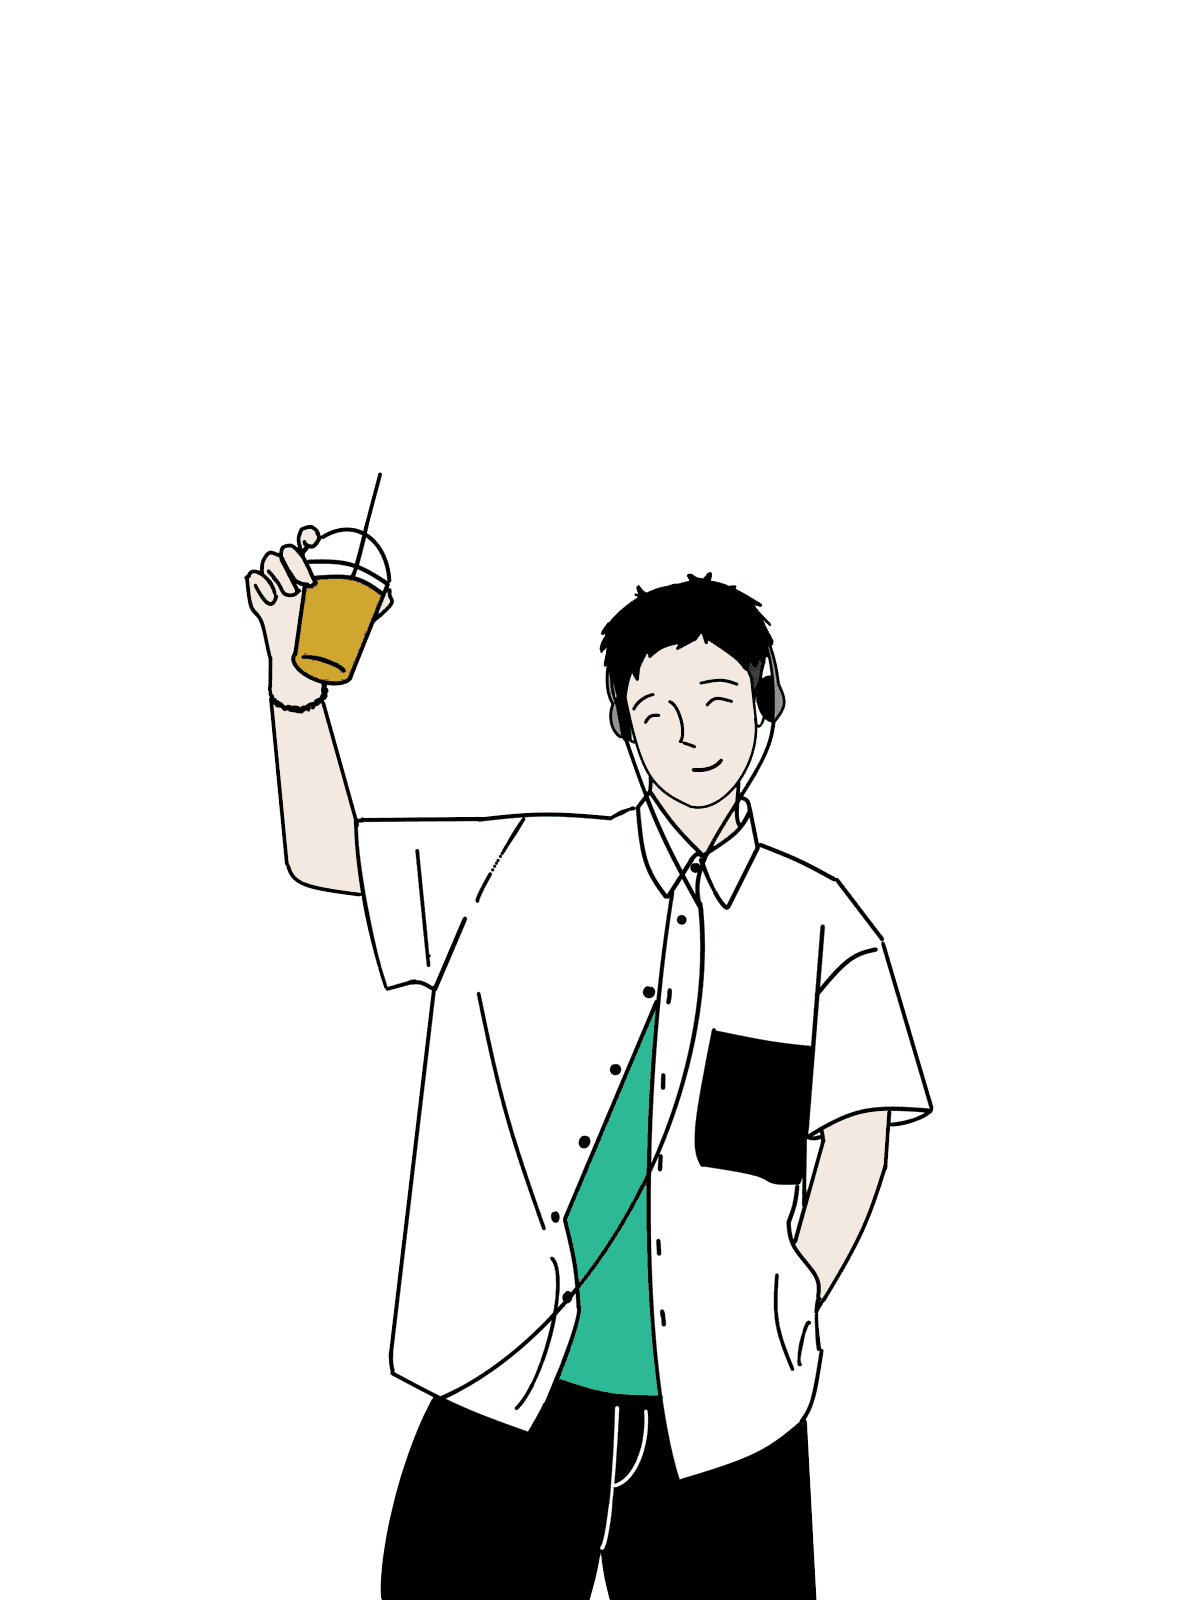
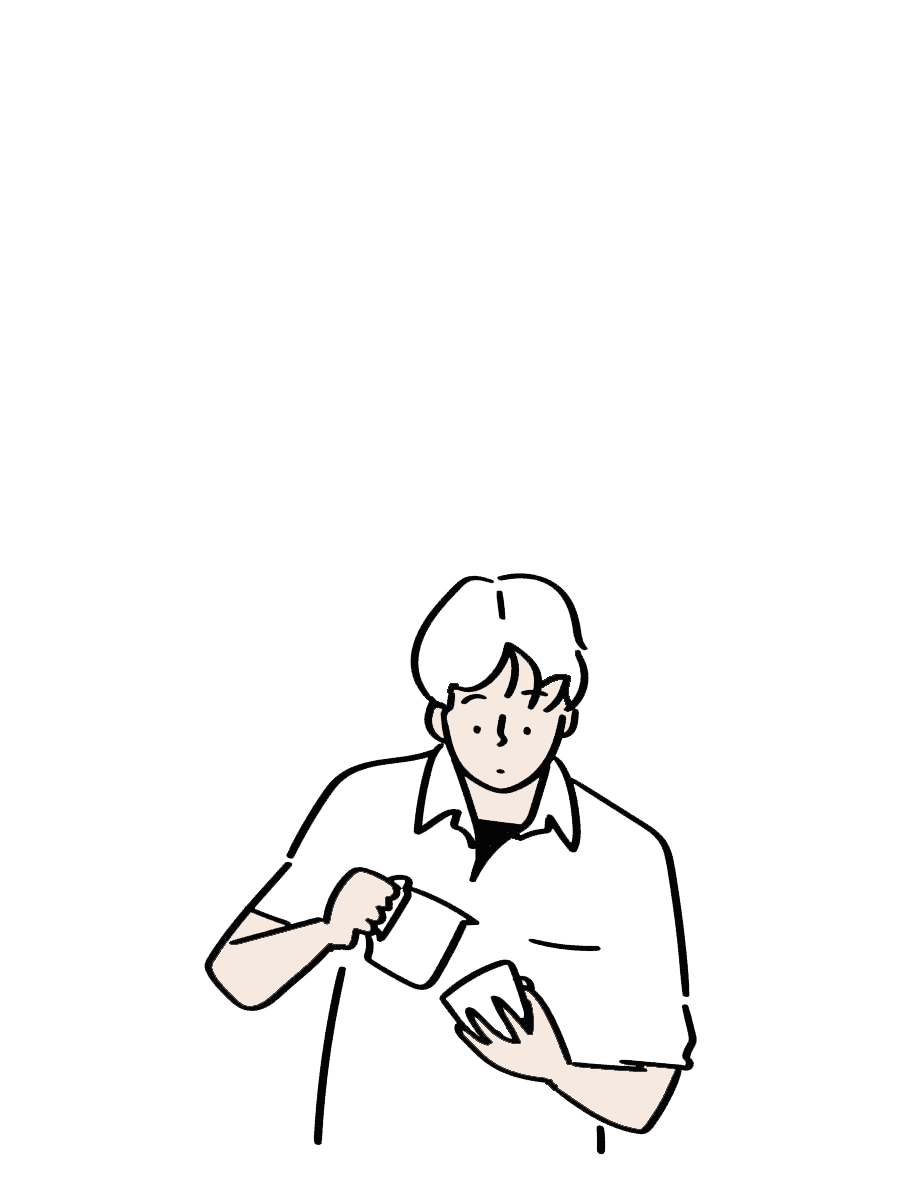
.

Changed region(s): [[0.1867, 0.3083, 0.7778, 1.0]]

diff --git a/src/css/style.css b/src/css/style.css
@@ -83,8 +83,8 @@
   }
 
   .buro img {
-    @apply w-full aspect-[4/3] object-cover overflow-hidden;
-    /* @apply w-full aspect-video object-cover overflow-hidden; */
+    /* @apply w-full aspect-[4/3] object-cover overflow-hidden; */
+    @apply w-full aspect-video object-cover overflow-hidden;
   }
 
   .player {

diff --git a/index.html b/index.html
@@ -76,7 +76,7 @@
         </div>
 
         <div class="buro">
-          <img src="./images/buro.png" alt="buro" fetchpriority="high">
+          <img src="./images/buro.webp" alt="buro" fetchpriority="high">
         </div>
 
         <div class="player">
